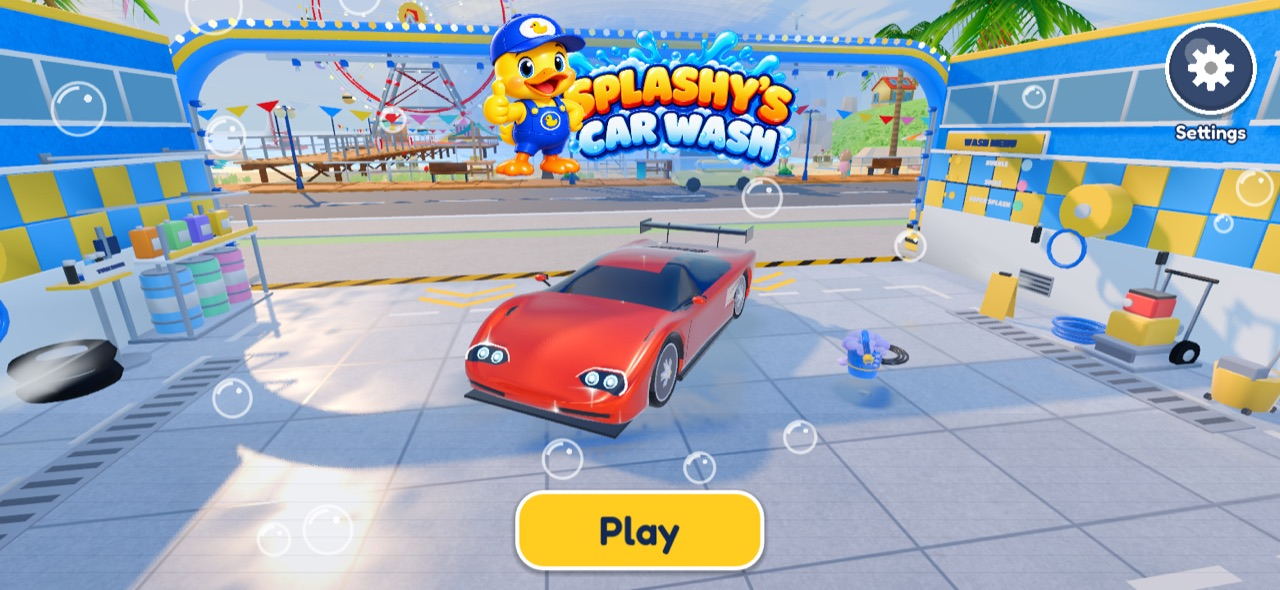
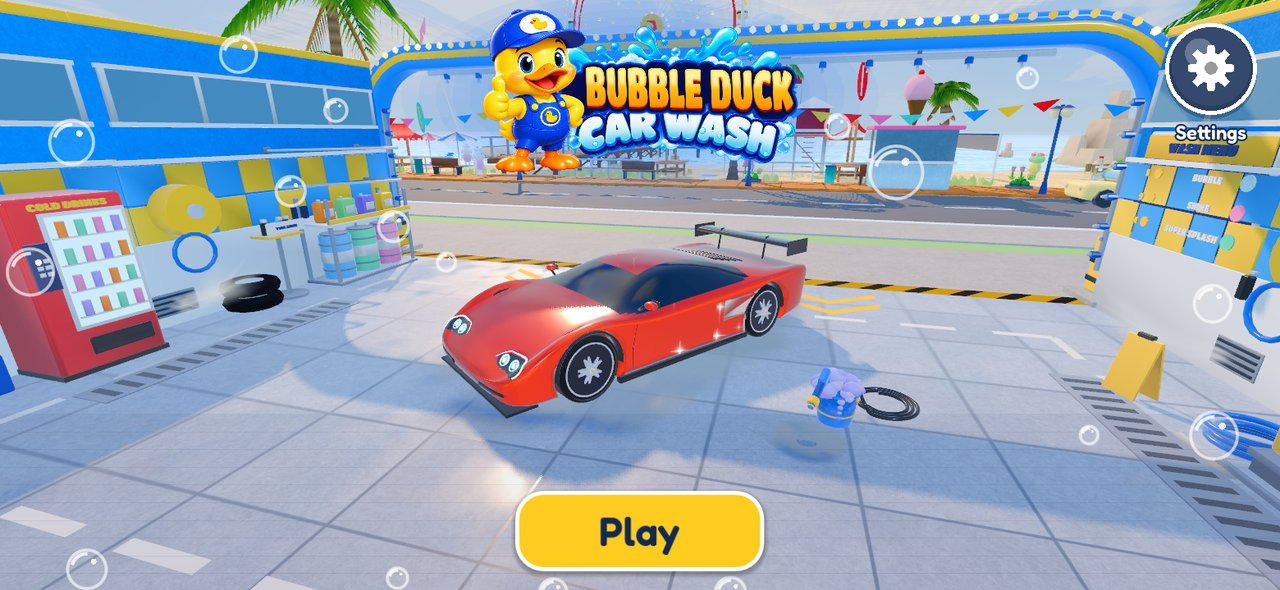
Rename to Bubble Duck Car Wash

diff --git a/support.html b/support.html
@@ -3,8 +3,8 @@
 <head>
   <meta charset="utf-8">
   <meta name="viewport" content="width=device-width, initial-scale=1, viewport-fit=cover">
-  <title>Splashy Support</title>
-  <meta name="description" content="Help, FAQ, privacy policy and terms for Splashy's Car Wash on iPhone.">
+  <title>Bubble Duck Support</title>
+  <meta name="description" content="Help, FAQ, privacy policy and terms for Bubble Duck Car Wash on iPhone.">
   <meta name="theme-color" content="#3fb2ff">
   <link rel="icon" href="assets/img/favicon-64.png" type="image/png">
   <link rel="apple-touch-icon" href="assets/img/app-icon-180.png">
@@ -18,7 +18,7 @@
 
   <header class="site-header site-header--solid">
     <div class="wrap">
-      <a class="brand" href="./"><img src="assets/img/app-icon-180.png" alt="" width="42" height="42"><span>Splashy's Car Wash</span></a>
+      <a class="brand" href="./"><img src="assets/img/app-icon-180.png" alt="" width="42" height="42"><span>Bubble Duck Car Wash</span></a>
       <nav class="nav" aria-label="Main">
         <a href="./">Home</a>
         <a href="support.html" aria-current="page">Support</a>
@@ -30,8 +30,8 @@
   <main id="main">
     <section class="page-hero">
       <div class="wrap">
-        <img src="assets/img/splashy.png" width="256" height="256" alt="Splashy the rubber duck">
-        <h1>How can Splashy help?</h1>
+        <img src="assets/img/splashy.png" width="256" height="256" alt="Bubbles the rubber duck">
+        <h1>How can Bubbles help?</h1>
         <p>Answers to common questions, how to reach us, and exactly what happens to your information.</p>
       </div>
     </section>
@@ -60,7 +60,7 @@
               <li>the level number and what happened.</li>
             </ul>
           </div>
-          <a class="btn-mail" href="mailto:nimisha.nagarkoti@gmail.com?subject=Splashy%27s%20Car%20Wash%20support">Email support</a>
+          <a class="btn-mail" href="mailto:nimisha.nagarkoti@gmail.com?subject=Bubble%20Duck%20Car%20Wash%20support">Email support</a>
         </div>
       </div>
     </section>
@@ -94,7 +94,7 @@
           <details>
             <summary>A spot won't come clean. What do I do?</summary>
             <div class="answer">
-              <p>Keep going: missed spots glow, and Splashy points them out if you pause for a moment. If a station really won't finish, email us the level number and vehicle and we'll fix it.</p>
+              <p>Keep going: missed spots glow, and Bubbles points them out if you pause for a moment. If a station really won't finish, email us the level number and vehicle and we'll fix it.</p>
             </div>
           </details>
           <details>
@@ -126,9 +126,9 @@
       <div class="wrap">
         <article class="prose">
           <span class="eyebrow">Privacy Policy</span>
-          <h2 id="privacy-title">Privacy Policy: Splashy's Car Wash</h2>
+          <h2 id="privacy-title">Privacy Policy: Bubble Duck Car Wash</h2>
           <p class="updated">Last updated: 10 November 2026</p>
-          <p>Splashy's Car Wash (“the app”, “we”, “us”) is a game for iPhone made by Nimisha Nagarkoti. This policy explains what information the app uses, why, and the choices you have.</p>
+          <p>Bubble Duck Car Wash (“the app”, “we”, “us”) is a game for iPhone made by Nimisha Nagarkoti. This policy explains what information the app uses, why, and the choices you have.</p>
 
           <div class="tldr">
             <strong>The short version</strong>
@@ -182,7 +182,7 @@
           </ul>
 
           <h3>5. Children</h3>
-          <p>Splashy's Car Wash is made for a general audience and is not in the App Store's Kids category. We don't knowingly collect personal information from children. The app has no accounts, chat or sharing; ads are limited to content suitable for all ages (Google's “G” rating) and are never personalised. If you're a parent and think your child has given us information, email us and we'll help.</p>
+          <p>Bubble Duck Car Wash is made for a general audience and is not in the App Store's Kids category. We don't knowingly collect personal information from children. The app has no accounts, chat or sharing; ads are limited to content suitable for all ages (Google's “G” rating) and are never personalised. If you're a parent and think your child has given us information, email us and we'll help.</p>
 
           <h3>6. Your rights</h3>
           <p>We don't hold personal information about you on any server, so usually there's nothing for us to access, correct or delete: your progress lives on your device and in your own iCloud account, and you can erase both with Reset progress (deleting the app removes only the copy on the phone).</p>
@@ -206,7 +206,7 @@
         <article class="prose">
           <span class="eyebrow">Terms of Use</span>
           <h2 id="terms-title">Terms of Use</h2>
-          <p>Splashy's Car Wash is licensed to you under Apple's <a href="https://www.apple.com/legal/internet-services/itunes/dev/stdeula/" rel="noopener">Standard Licensed Application End User License Agreement</a> (EULA). By downloading or using the app you agree to it. The points below explain how a few things work in the game. They don't replace the EULA.</p>
+          <p>Bubble Duck Car Wash is licensed to you under Apple's <a href="https://www.apple.com/legal/internet-services/itunes/dev/stdeula/" rel="noopener">Standard Licensed Application End User License Agreement</a> (EULA). By downloading or using the app you agree to it. The points below explain how a few things work in the game. They don't replace the EULA.</p>
           <h3>Coins and virtual items</h3>
           <ul>
             <li>The app has no in-app purchases. Coins are earned by playing, and reward ads you choose to watch can give extra coins.</li>
@@ -227,7 +227,7 @@
 
   <footer class="site-footer">
     <div class="wrap">
-      <div class="brand" style="color:#fff"><img src="assets/img/app-icon-180.png" alt="" width="42" height="42"><span>Splashy's Car Wash</span></div>
+      <div class="brand" style="color:#fff"><img src="assets/img/app-icon-180.png" alt="" width="42" height="42"><span>Bubble Duck Car Wash</span></div>
       <nav class="footer-links" aria-label="Footer">
         <a href="./">Home</a>
         <a href="#faq">FAQ</a>

diff --git a/index.html b/index.html
@@ -3,11 +3,11 @@
 <head>
   <meta charset="utf-8">
   <meta name="viewport" content="width=device-width, initial-scale=1, viewport-fit=cover">
-  <title>Splashy's Car Wash</title>
+  <title>Bubble Duck Car Wash</title>
   <meta name="description" content="Hose, foam and scrub muddy cartoon cars until they sparkle. 300 levels, funny animal customers and a rubber-duck boss who loves a good shine. Coming soon to iPhone.">
   <meta name="theme-color" content="#3fb2ff">
   <meta property="og:type" content="website">
-  <meta property="og:title" content="Splashy's Car Wash">
+  <meta property="og:title" content="Bubble Duck Car Wash">
   <meta property="og:description" content="Hose, foam and scrub muddy cartoon cars until they sparkle. Coming soon to iPhone.">
   <meta property="og:image" content="/assets/img/shot-title.jpg">
   <meta name="twitter:card" content="summary_large_image">
@@ -24,7 +24,7 @@
 
   <header class="site-header">
     <div class="wrap">
-      <a class="brand" href="./"><img src="assets/img/app-icon-180.png" alt="" width="42" height="42"><span>Splashy's Car Wash</span></a>
+      <a class="brand" href="./"><img src="assets/img/app-icon-180.png" alt="" width="42" height="42"><span>Bubble Duck Car Wash</span></a>
       <nav class="nav" aria-label="Main">
         <a class="nav-hide-sm" href="#how">How it plays</a>
         <a href="support.html">Support</a>
@@ -38,7 +38,7 @@
     <section class="hero" aria-labelledby="hero-title">
       <canvas id="wash-scene" aria-hidden="true"></canvas>
       <div class="hero__content">
-        <img class="hero__logo" src="assets/img/logo.png" width="960" height="540" alt="Splashy's Car Wash, with Splashy the rubber duck giving a thumbs up">
+        <img class="hero__logo" src="assets/img/logo.png" width="960" height="540" alt="Bubble Duck Car Wash, with Bubbles the rubber duck giving a thumbs up">
         <h1 id="hero-title">Hose it. Foam it. Make it sparkle!</h1>
         <p class="hero__lead">The muddiest rides in town are lining up. Blast, scrub and polish cartoon cars from grimy to gleaming, one wheel, mirror and seat at a time.</p>
         <div class="cta-row">
@@ -60,11 +60,11 @@
         <div class="section-head">
           <span class="eyebrow">How a wash goes</span>
           <h2 id="how-title">From muddy to marvellous</h2>
-          <p>Every customer brings a filthy ride and a funny request. Splashy hands you the right tool and you make it shine.</p>
+          <p>Every customer brings a filthy ride and a funny request. Bubbles hands you the right tool and you make it shine.</p>
         </div>
         <div class="flow">
           <article class="step">
-            <figure class="step__shot"><img src="assets/img/shot-map.jpg" width="1280" height="720" alt="The level map: a winding beach road with level 1 unlocked and Splashy's pin" loading="lazy"></figure>
+            <figure class="step__shot"><img src="assets/img/shot-map.jpg" width="1280" height="720" alt="The level map: a winding beach road with level 1 unlocked and Bubbles' pin" loading="lazy"></figure>
             <div>
               <div class="step__num">1</div>
               <h3>Pick your next customer</h3>
@@ -122,8 +122,8 @@
       <div class="wrap">
         <h2 id="splashy-title" class="section-head" style="margin-bottom:28px">Meet the boss</h2>
         <div class="splashy">
-          <img src="assets/img/splashy.png" width="256" height="256" alt="Splashy, a yellow rubber duck in a blue cap and overalls" loading="lazy">
-          <blockquote class="bubble">"Quack! Grab a hose. If it's muddy, it's ours, and if it's ours, it SPARKLES!"<cite>Splashy, owner and head duck</cite></blockquote>
+          <img src="assets/img/splashy.png" width="256" height="256" alt="Bubbles, a yellow rubber duck in a blue cap and overalls" loading="lazy">
+          <blockquote class="bubble">"Quack! Grab a hose. If it's muddy, it's ours, and if it's ours, it SPARKLES!"<cite>Bubbles, owner and head duck</cite></blockquote>
         </div>
       </div>
     </section>
@@ -135,7 +135,7 @@
             <i style="width:70px;height:70px;left:4%;top:-20px"></i><i style="width:34px;height:34px;left:40%;bottom:12px"></i><i style="width:110px;height:110px;right:-30px;bottom:-40px"></i><i style="width:22px;height:22px;left:62%;top:18px"></i>
           </div>
           <div>
-            <h2 id="get-title">Get Splashy's Car Wash</h2>
+            <h2 id="get-title">Get Bubble Duck Car Wash</h2>
             <p>Coming soon to iPhone. Free to play.</p>
           </div>
           <!-- PLACEHOLDER: same official badge + App Store link as the hero. -->
@@ -150,7 +150,7 @@
 
   <footer class="site-footer">
     <div class="wrap">
-      <div class="brand" style="color:#fff"><img src="assets/img/app-icon-180.png" alt="" width="42" height="42"><span>Splashy's Car Wash</span></div>
+      <div class="brand" style="color:#fff"><img src="assets/img/app-icon-180.png" alt="" width="42" height="42"><span>Bubble Duck Car Wash</span></div>
       <nav class="footer-links" aria-label="Footer">
         <a href="support.html">Support</a>
         <a href="support.html#faq">FAQ</a>

diff --git a/assets/js/wash.js b/assets/js/wash.js
@@ -1,4 +1,4 @@
-/* Splashy's Car Wash: animated hero scene.
+/* Bubble Duck Car Wash: animated hero scene.
  *
  * A looping, procedurally drawn wash: a muddy car drives in, gets foamed,
  * scrubbed by a roller brush, rinsed and polished, then drives out, and the
@@ -695,7 +695,7 @@
     ctx.font = `${Math.round(30 * s)}px "Titan One", "Arial Rounded MT Bold", sans-serif`;
     ctx.textAlign = 'center';
     ctx.textBaseline = 'middle';
-    ctx.fillText("SPLASHY'S", archX, top - bh - sh / 2 + 9 * s);
+    ctx.fillText("BUBBLE DUCK", archX, top - bh - sh / 2 + 9 * s);
 
     ctx.fillStyle = '#45526b';
     for (const k of [-200, -120, -40, 40, 120, 200]) {

diff --git a/privacy/index.html b/privacy/index.html
@@ -1,5 +1,5 @@
 <!doctype html>
-<html lang="en"><head><meta charset="utf-8"><title>Splashy's Car Wash: privacy</title>
+<html lang="en"><head><meta charset="utf-8"><title>Bubble Duck Car Wash: privacy</title>
 <meta http-equiv="refresh" content="0; url=../support.html#privacy">
 <link rel="canonical" href="../support.html#privacy"></head>
 <body><p><a href="../support.html#privacy">Open the privacy page</a></p></body></html>

diff --git a/terms/index.html b/terms/index.html
@@ -1,5 +1,5 @@
 <!doctype html>
-<html lang="en"><head><meta charset="utf-8"><title>Splashy's Car Wash: terms</title>
+<html lang="en"><head><meta charset="utf-8"><title>Bubble Duck Car Wash: terms</title>
 <meta http-equiv="refresh" content="0; url=../support.html#terms">
 <link rel="canonical" href="../support.html#terms"></head>
 <body><p><a href="../support.html#terms">Open the terms page</a></p></body></html>

diff --git a/assets/css/site.css b/assets/css/site.css
@@ -1,4 +1,4 @@
-/* Splashy's Car Wash: marketing + support site. Shared by index.html and support.html. */
+/* Bubble Duck Car Wash: marketing + support site. Shared by index.html and support.html. */
 
 :root {
   --navy: #13224a;
